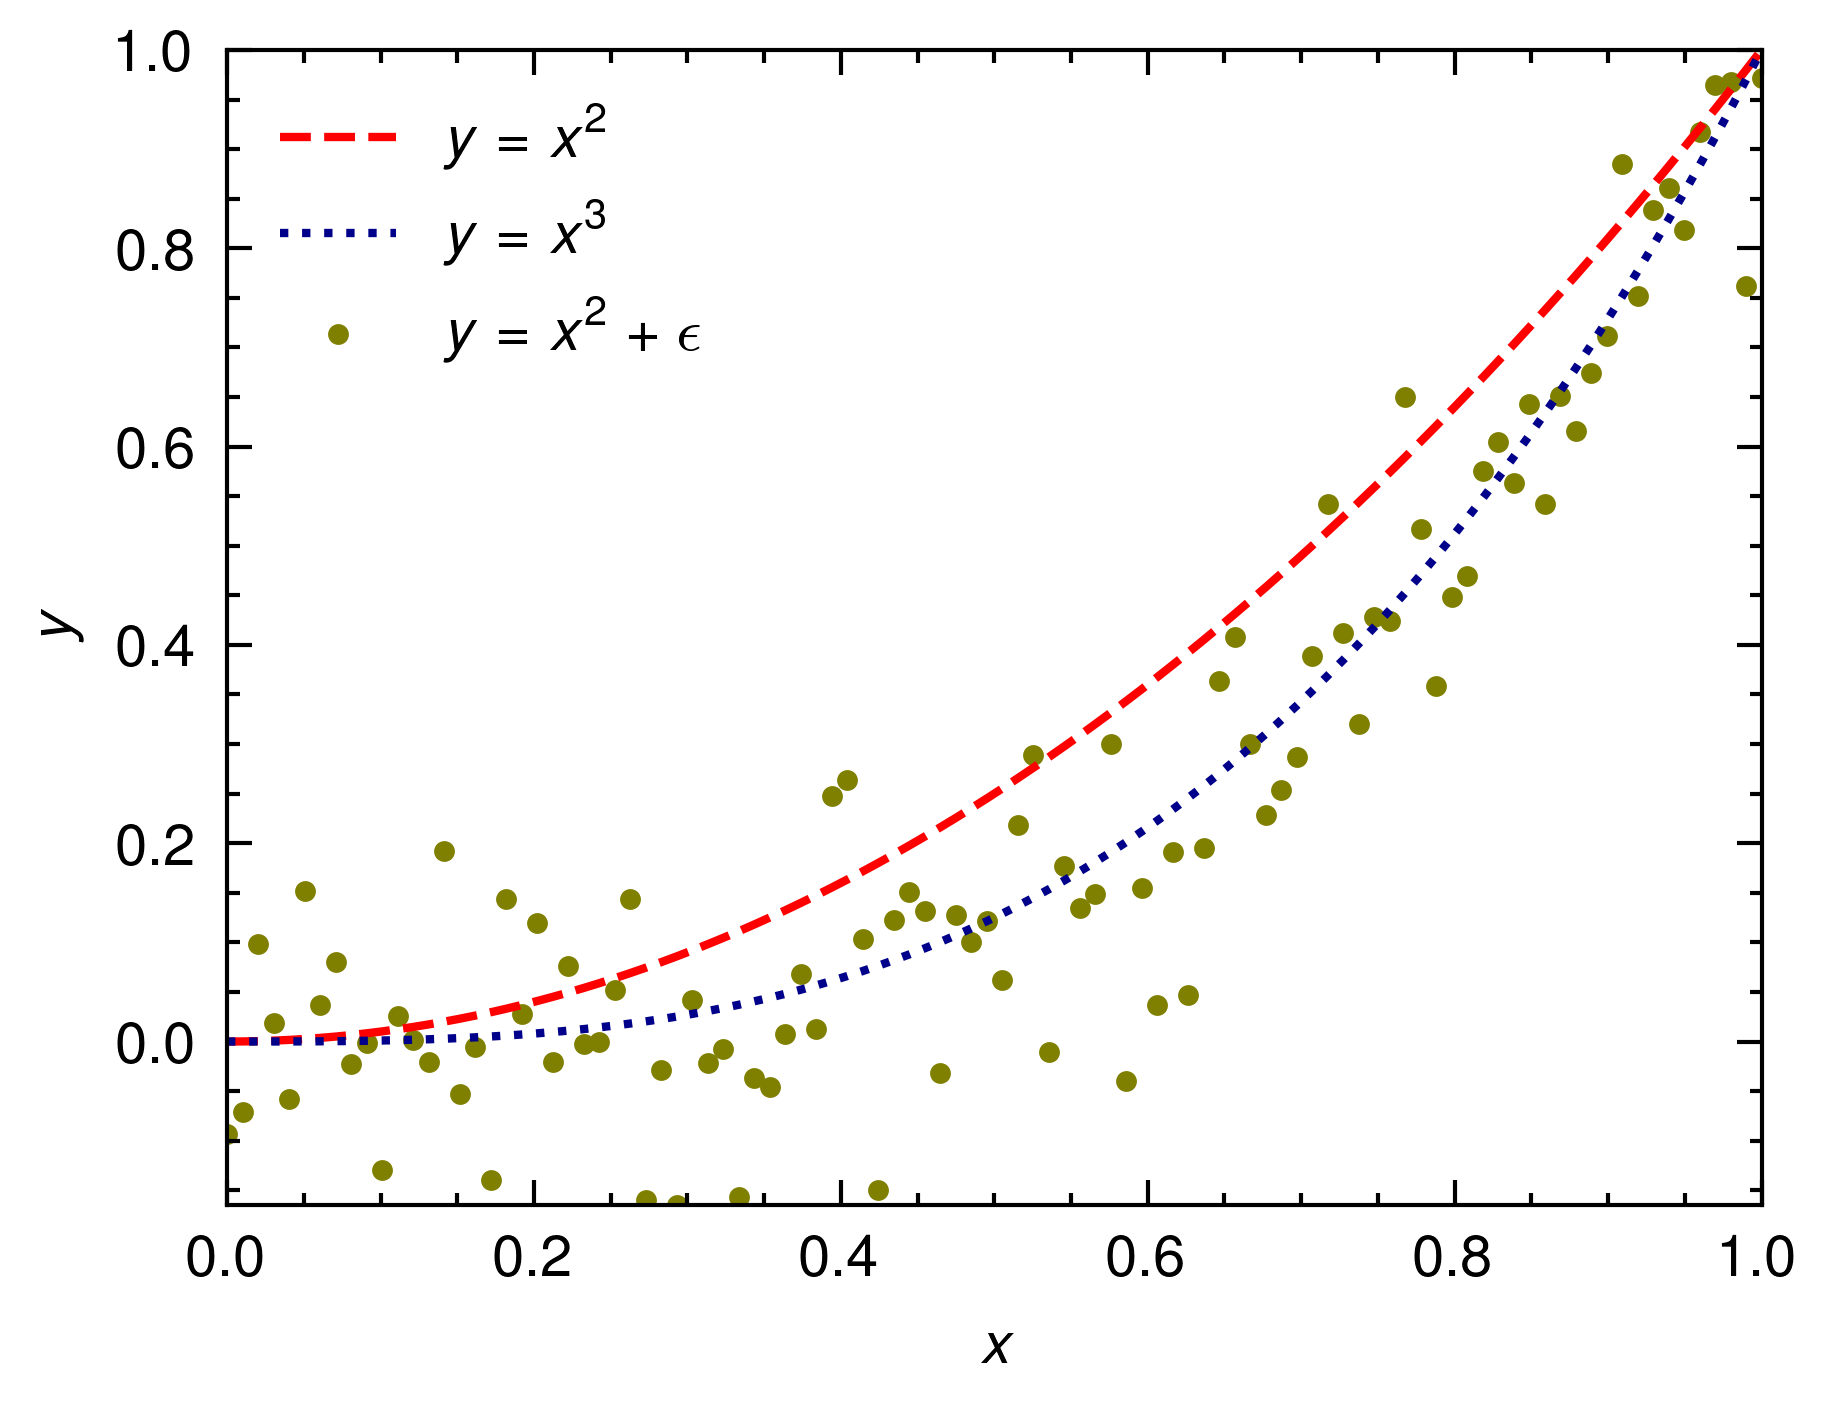
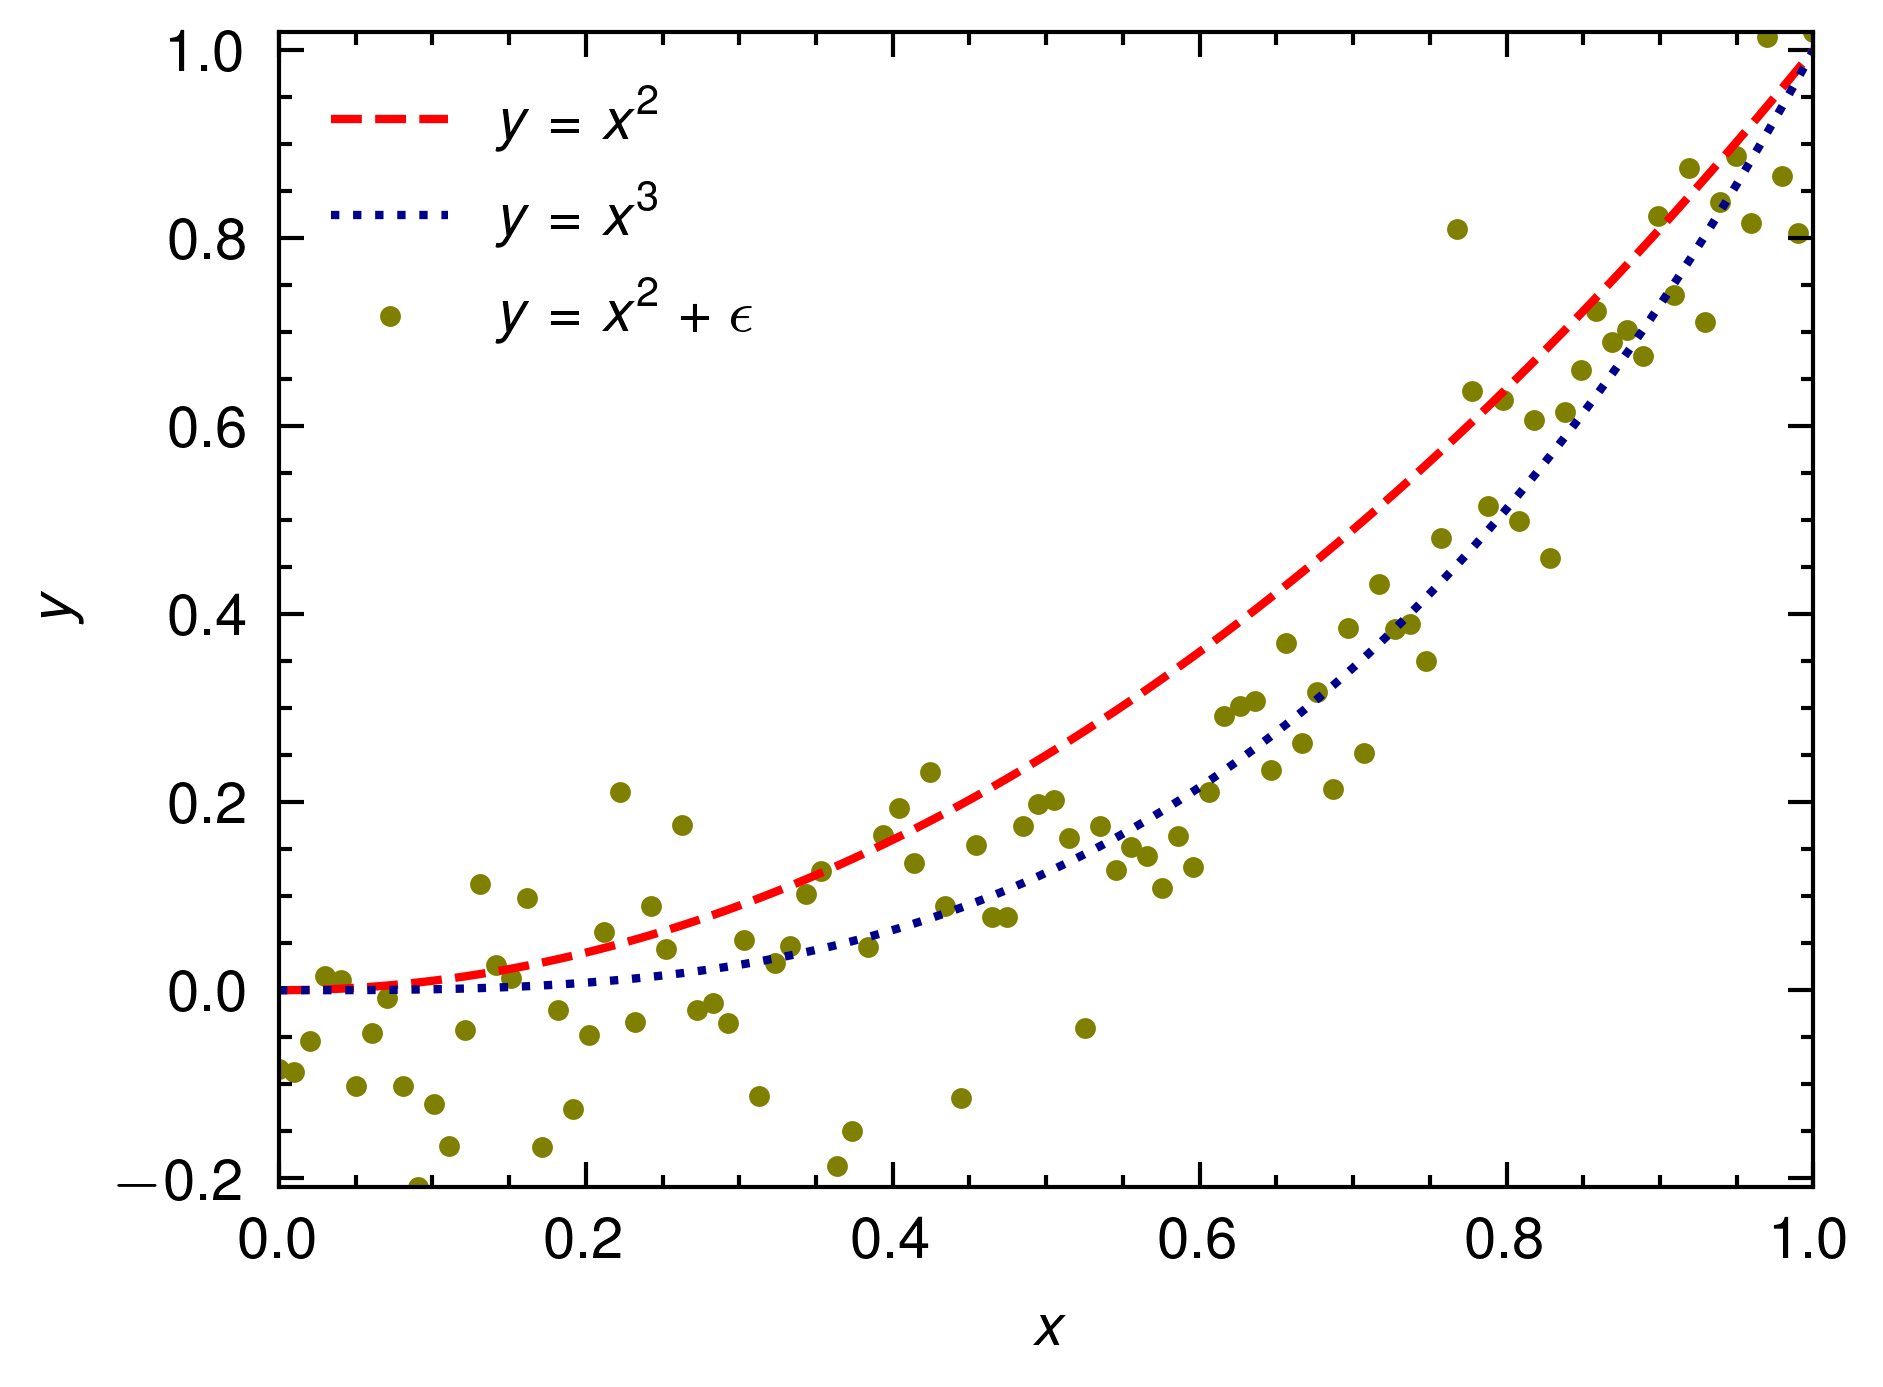
FIX: fix randomness of plot and change ODE example plot

diff --git a/src/util/plot.rs b/src/util/plot.rs
@@ -21,8 +21,9 @@
 //!     let y1 = x.fmap(|t| t.powi(2));
 //!     let y2 = x.fmap(|t| t.powi(3));
 //!
+//!     let mut rng = SmallRng::seed_from_u64(42);
 //!     let normal = Normal(0f64, 0.1);
-//!     let eps = normal.sample(100);
+//!     let eps = normal.sample_with_rng(&mut rng, x.len());
 //!     let y3 = y2.add_v(&eps);
 //!
 //!     let mut plt = Plot2D::new();

diff --git a/examples/lorenz_rkf45.rs b/examples/lorenz_rkf45.rs
@@ -2,7 +2,7 @@ use peroxide::fuga::*;
 
 #[allow(unused_variables)]
 fn main() -> Result<(), Box<dyn Error>> {
-    let rkf45 = RKF45::new(1e-4, 0.9, 1e-6, 1e-1, 100);
+    let rkf45 = RKF45::new(1e-4, 0.9, 1e-6, 1e-2, 100);
     let basic_ode_solver = BasicODESolver::new(rkf45);
     let (_, y_vec) = basic_ode_solver.solve(
         &Lorenz,

diff --git a/README.md b/README.md
@@ -256,7 +256,7 @@ The example code demonstrates how Peroxide can be used to simulate the Lorenz at
 use peroxide::fuga::*;
 
 fn main() -> Result<(), Box<dyn Error>> {
-    let rkf45 = RKF45::new(1e-4, 0.9, 1e-6, 1e-1, 100);
+    let rkf45 = RKF45::new(1e-4, 0.9, 1e-6, 1e-2, 100);
     let basic_ode_solver = BasicODESolver::new(rkf45);
     let (_, y_vec) = basic_ode_solver.solve(
         &Lorenz,
